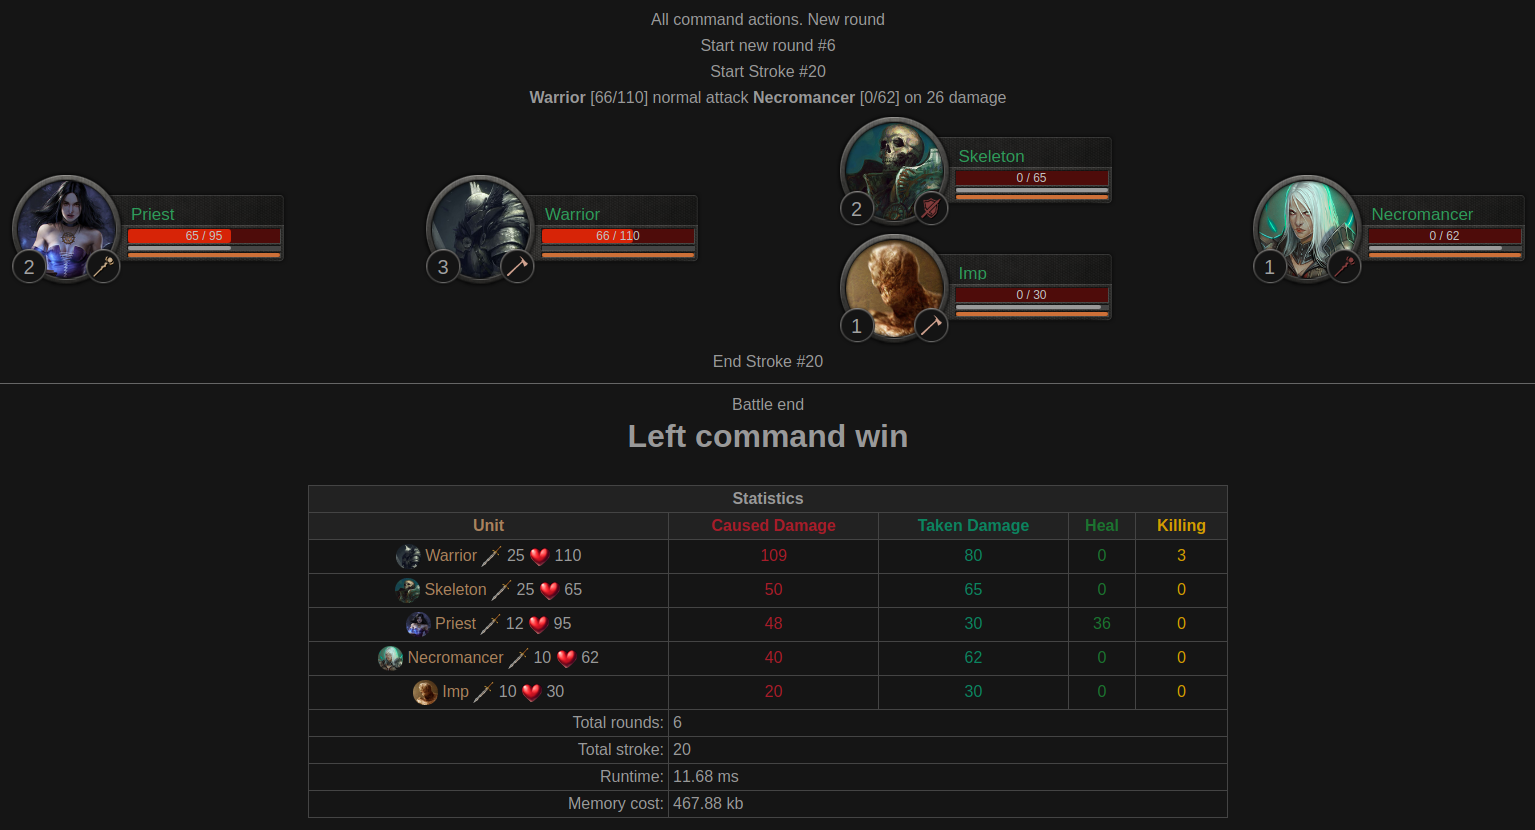
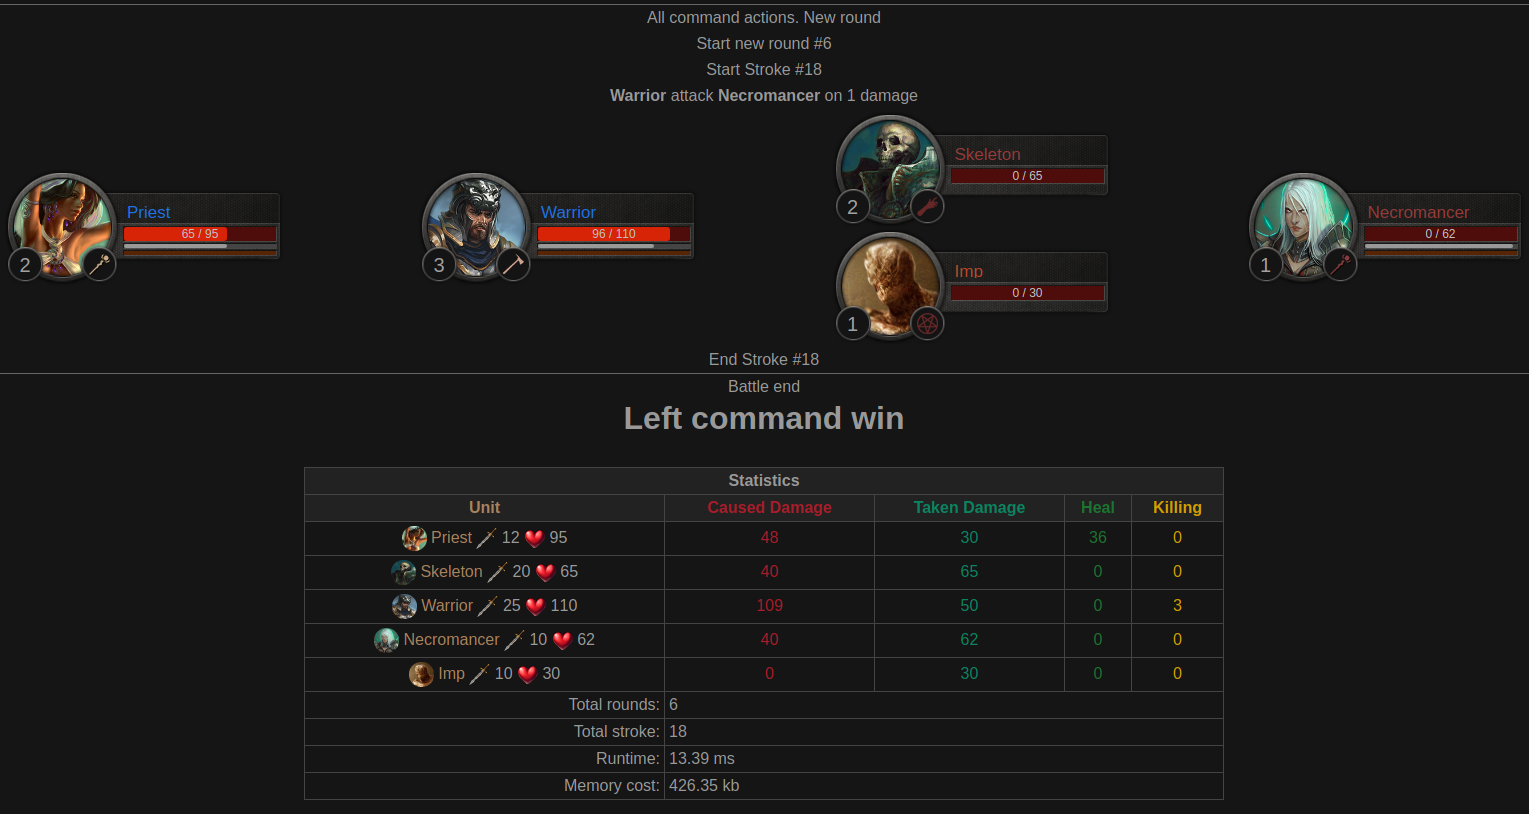
Updated README.md

diff --git a/README.md b/README.md
@@ -1,34 +1,6 @@
-## Модуль командного боя
+# Battle Module
 
-Написан на принципах DDD:
-
-- Модуль имеет свой, независимый неймспейс `Battle`
-- Модуль написан полностью независимым от фреймворков, и прочего
-- Модуль изолированно выполняет свою задачу: принимает данные по сражающимся юнитам (это может быть как бой 1 на 1 так и
- команда на команду), обрабатывает бой и возвращает результат, на основании которого можно отобразить бой на фронте
-- Классы в модуле полностью соответствуют «бизнес»-сущностям, а именно:
-    - Бой обрабатывается в классе `Battle`
-    - Сражающиеся две команды реализованы в классах `Command`
-    - Команды состоят из юнитов (это могут быть как персонажи игроков, так и монстры), реализованных в классе `Unit`
-    - Процесс боя проходит в раундах - классе `Round` в котором каждый живой юнит должен совершить свой ход. После того,
-    как все юниты походили, начинается новый раунд
-    - Раунд состоит из ходов одного юнита, и эти ходы реализованы в классах `Stroke`
-    - Взаимодействие между юнитами построено на обмене абстрактных `Action` - это может быть как удар, так и лечение, 
-    так и использование способности. При этом для внешних объектов совершенно не важно, что это - просто у одного юнита
-    запрашивается коллекция его действий, и выполняется. При этом само действие определяет, на кого оно должно 
-    примениться.
-    - Результат бой сохраняется в `Result`
-    - Статистика по бою сохраняется в `Statistic`
-- Все важные зависимости завязаны на интерфейсы, а не на конкретную реализацию
-- Большое внимание уделено тестам и проработке всех пограничных ситуаций. Покрытие кода тестами 100%
-
-Пример боя:
-
-`public/index.php`
-
-Запуск тестов:
-
-`php vendor/bin/phpunit`
+Модуль командного, пошагового боя для браузерной игры.
 
 ## Пример (1 на 1)
 
@@ -43,25 +15,27 @@ $data = [
         'level'        => 3,
         'avatar'       => '/images/avas/humans/human001.jpg',
         'damage'       => 25,
-        'attack_speed' => 1.0,
+        'attack_speed' => 0.8,
         'life'         => 110,
         'total_life'   => 110,
         'melee'        => true,
         'class'        => 1,
-        'command'      => 'left',
+        'race'         => 1,
+        'command'      => 1,
     ],
     [
         'id'           => 'bf75c4a3-b866-4787-88c7-8db57daf3d64',
         'name'         => 'Skeleton',
         'level'        => 2,
         'avatar'       => '/images/avas/monsters/005.png',
-        'damage'       => 25,
-        'attack_speed' => 1,
+        'damage'       => 20,
+        'attack_speed' => 1.2,
         'life'         => 65,
         'total_life'   => 65,
         'melee'        => true,
-        'class'        => 3,
-        'command'      => 'right',
+        'class'        => null,
+        'race'         => 8,
+        'command'      => 2,
     ],
 ];
 
@@ -81,9 +55,39 @@ echo $view->renderResult($result);
 
 ![alt text](public/images/example_end.png)
 
-## GitLab CI/CD
+
+Вы можете запустить и посмотреть бой открыв страницу:
+
+`public/index.php`
+
+
+## GitLab CI
 
 ![alt text](public/images/gitlab-ci-cd.png)
+
+## Архитектурные принципы
+
+Модуль написан на принципах DDD:
+
+- Имеет свой, независимый неймспейс `Battle`
+- Написан полностью независимым от фреймворков, и прочих тяжелых зависимостей
+- Изолированно выполняет свою задачу: принимает данные по сражающимся юнитам (это может быть как бой 1 на 1 так и
+  команда на команду), обрабатывает бой и возвращает результат, на основании которого можно отобразить бой на фронте
+- Классы в модуле полностью соответствуют «бизнес»-сущностям, а именно:
+    - Бой обрабатывается в классе `Battle`
+    - Сражающиеся две команды реализованы в классах `Command`
+    - Команды состоят из юнитов (это могут быть как персонажи игроков, так и монстры), реализованных в классе `Unit`
+    - Процесс боя проходит в раундах - классе `Round` в котором каждый живой юнит должен совершить свой ход. После того,
+    как все юниты походили, начинается новый раунд
+    - Раунд состоит из ходов одного юнита, и эти ходы реализованы в классах `Stroke`
+    - Взаимодействие между юнитами построено на обмене абстрактных `Action` - это может быть как удар, так и лечение, 
+    так и использование способности. При этом для внешних объектов совершенно не важно, что это - просто у одного юнита
+    запрашивается коллекция его действий, и выполняется. При этом само действие определяет, на кого оно должно 
+    примениться.
+    - Результат бой сохраняется в `Result`
+    - Статистика по бою сохраняется в `Statistic`
+- Все важные зависимости завязаны на интерфейсы, а не на конкретную реализацию
+- Большое внимание уделено тестам и проработке всех пограничных ситуаций. Покрытие кода тестами 100%
 
 ## Планы
 
